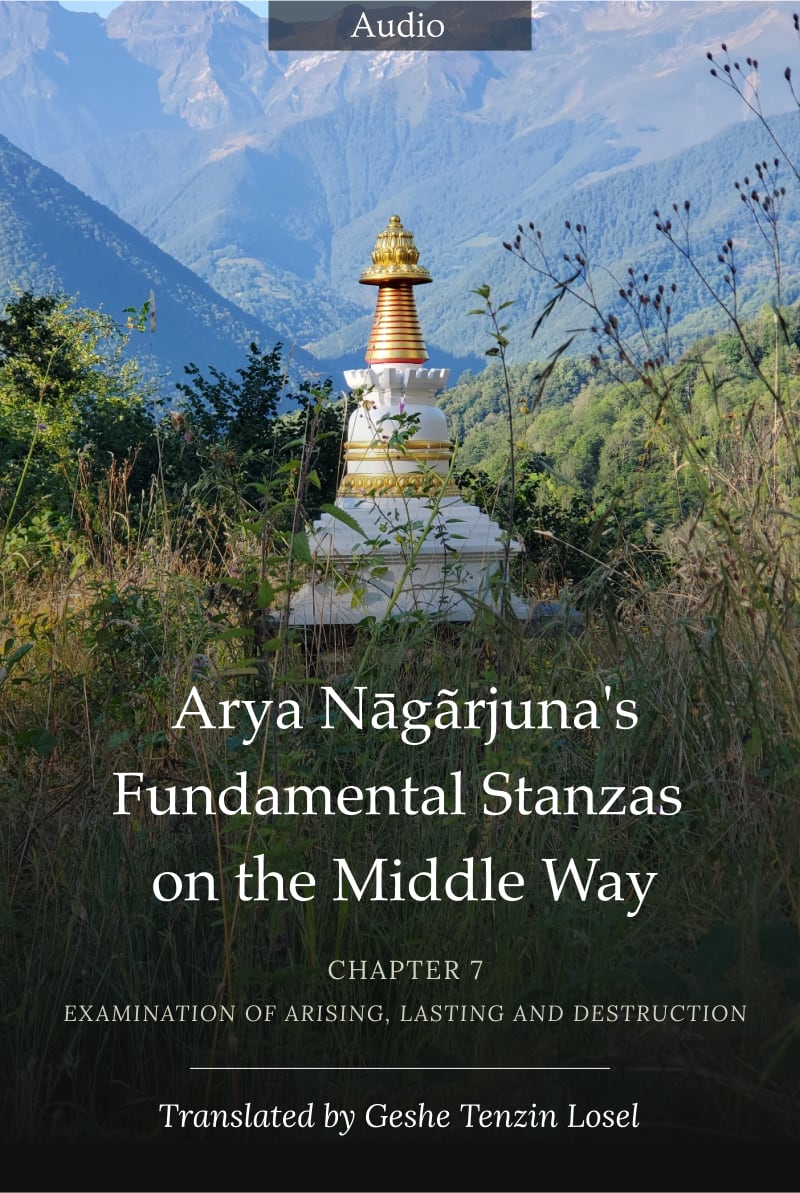
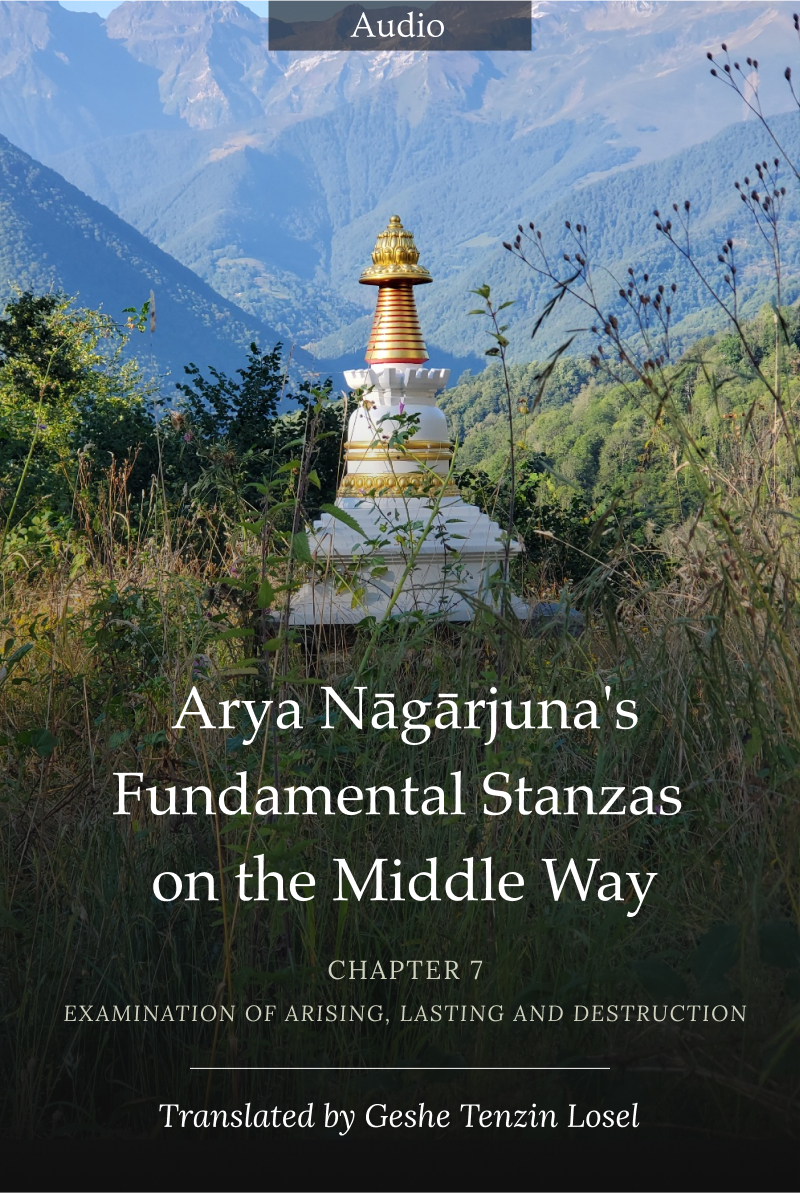
Fix correct character

Changed region(s): [[0.5312, 0.5583, 0.5625, 0.5893]]

diff --git a/_site/publications/index.html b/_site/publications/index.html
@@ -331,7 +331,7 @@
               col-sm-3 
               col-md-2">
       <a href="/publications/nagarjuna-chapter-seven/" class="">
-        <img class="publications__img" src="http://localhost:4000/images/nagarjuna-chapter-seven.jpg" alt="Arya Nāgãrjuna's Fundamental Stanzas on the Middle Way - Chapter 7">
+        <img class="publications__img" src="http://localhost:4000/images/nagarjuna-chapter-seven.jpg" alt="Arya Nāgārjuna's Fundamental Stanzas on the Middle Way - Chapter 7">
       </a>
     </div>   
   <div class="col-xs-10
@@ -340,7 +340,7 @@
               start-xs">
     <div class="publications__info">
       <a href="/publications/nagarjuna-chapter-seven/">
-          <h3 class="publications__title">Arya Nāgãrjuna's Fundamental Stanzas on the Middle Way - Chapter 7</h3>
+          <h3 class="publications__title">Arya Nāgārjuna's Fundamental Stanzas on the Middle Way - Chapter 7</h3>
         </a>
         <p class="publications__desc">Chapter 7 - Examination of Arising, Lasting and Destruction</p>
         <a class="publications__link" href="/publications/nagarjuna-chapter-seven/">Read more <span class="publications__arrow">&#187;</span></a>

diff --git a/_site/publications/nagarjuna-chapter-seven/index.html b/_site/publications/nagarjuna-chapter-seven/index.html
@@ -2,7 +2,7 @@
 <html lang="en">
 <head>
 	<meta charset="UTF-8">
-	<title>Arya Nāgãrjuna's Fundamental Stanzas on the Middle Way - Chapter 7</title>
+	<title>Arya Nāgārjuna's Fundamental Stanzas on the Middle Way - Chapter 7</title>
 	<meta name="Geshe Losel is a British monk, born Graham Woodhouse is one of the very few Westerners trained in the traditional Tibetan way as a Geshe."/ >
 	<meta name="viewport" content="width=device-width, initial-scale=1.0, user-scalable=0, minimum-scale=1.0, maximum-scale=1.0">
 	<link rel="shortcut icon" href="http://localhost:4000/images/favicon.ico" />
@@ -73,7 +73,7 @@
               col-sm-6 
               col-md-9">
     <div class="publication-single__desc">
-		<h2 class="publication-single__title">Arya Nāgãrjuna's Fundamental Stanzas on the Middle Way - Chapter 7</h2>
+		<h2 class="publication-single__title">Arya Nāgārjuna's Fundamental Stanzas on the Middle Way - Chapter 7</h2>
 		<h3 class="publication-single__author">
 				</h3>
 		<h3 class="publication-single__translated"> Translated by Geshe Graham Woodhouse </h3>

diff --git a/_publications/nagarjuna-chapter-seven.md b/_publications/nagarjuna-chapter-seven.md
@@ -1,6 +1,6 @@
 ---
 layout: publication-single
-title: Arya Nāgãrjuna's Fundamental Stanzas on the Middle Way - Chapter 7
+title: Arya Nāgārjuna's Fundamental Stanzas on the Middle Way - Chapter 7
 description: "Chapter 7 - Examination of Arising, Lasting and Destruction"
 published_date: 9 November 2023
 image_url: nagarjuna-chapter-seven.jpg
